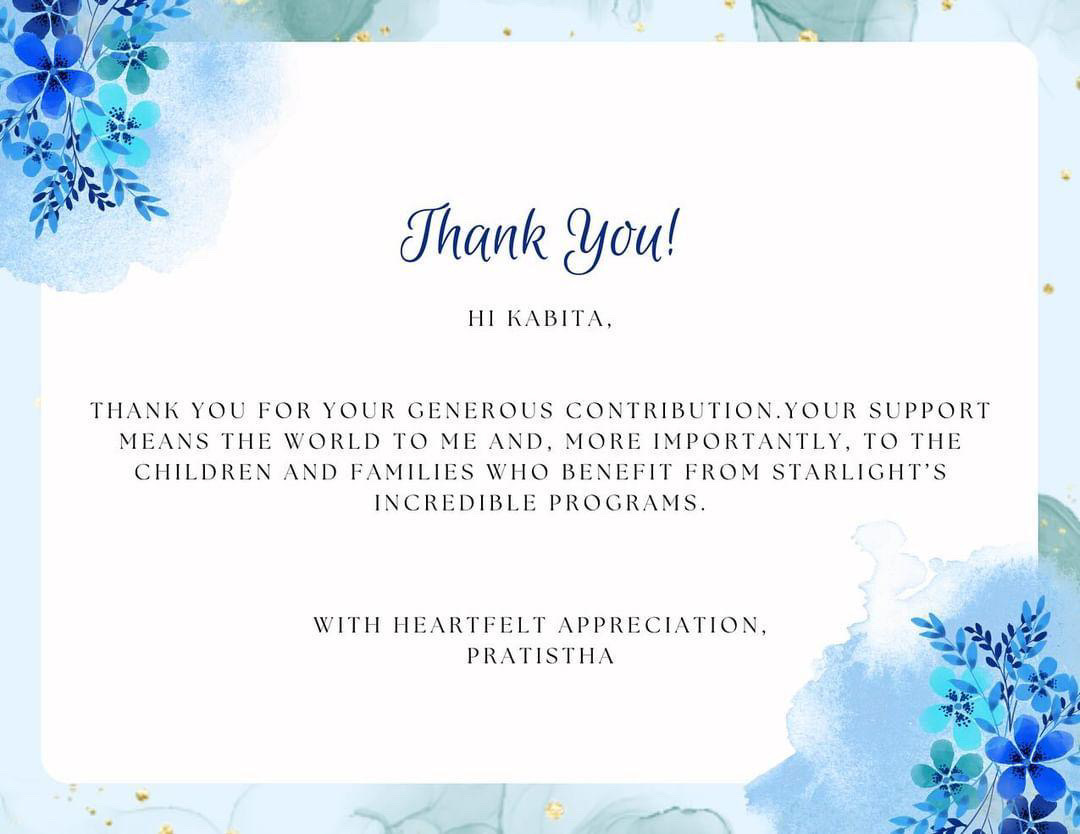
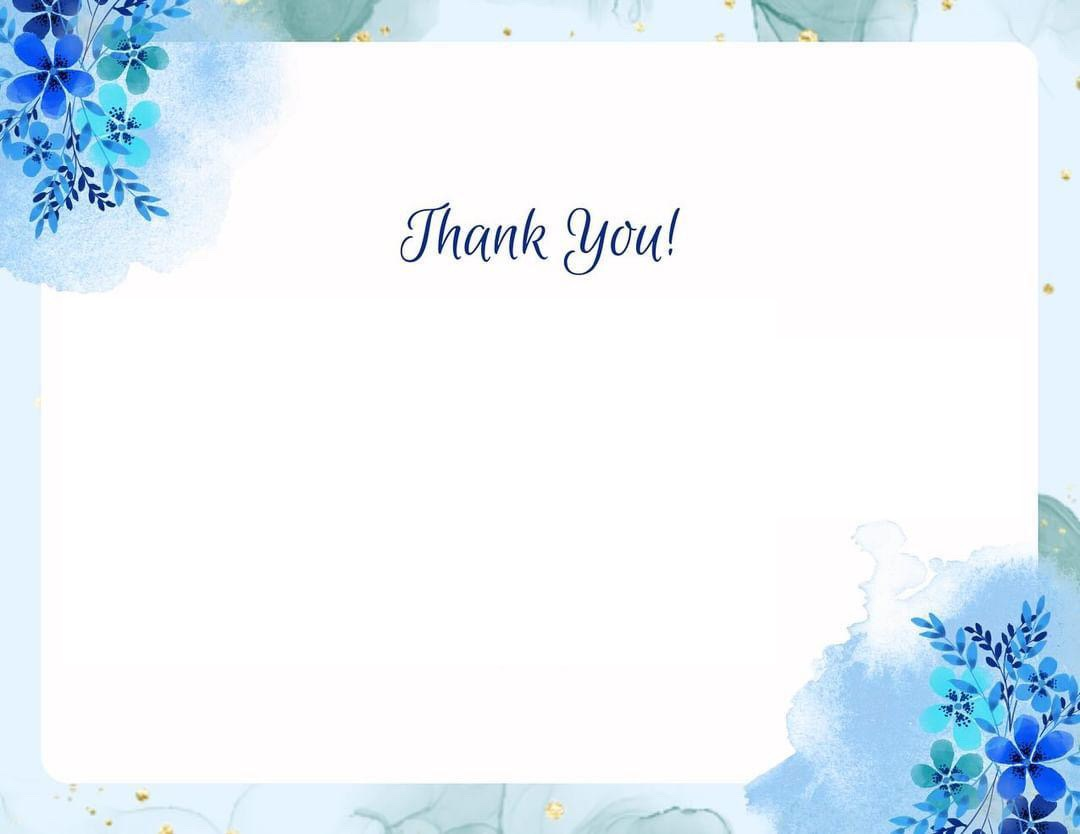
update img+ css

Changed region(s): [[0.0917, 0.4676, 0.9167, 0.6235], [0.3667, 0.717, 0.7028, 0.8106], [0.4278, 0.3741, 0.55, 0.4053]]

diff --git a/src/App.tsx b/src/App.tsx
@@ -10,18 +10,39 @@ const App = () => {
   return (
     <>
       <div className="wrapper" ref={printRef}>
-        <div className="text">Hi {name}</div>
         <img src={IMG} alt="image" />
+        <div className="text">
+          <span className="name">Hi{' ' + name},</span>
+          Thank you for your generous contribution.
+          <br />
+          Your support means the world to me and, more importantly,
+          <br />
+          to the children and families who benefit from Starlight’s <br />
+          incredible programs.
+          <span className="special">
+            With heartfelt appreciation,
+            <br />
+            Pratistha
+          </span>
+        </div>
       </div>
 
       <label htmlFor="name">Name : </label>
+
       <input
         type="text"
         name="name"
         id="name"
         onChange={(e) => setName(e.target.value)}
       />
-      <button type="button" onClick={() => exportComponentAsPNG(printRef)}>
+
+      <button
+        type="button"
+        onClick={() => {
+          if (!name) alert('Please enter your name');
+          if (name) exportComponentAsPNG(printRef);
+        }}
+      >
         Print
       </button>
     </>

diff --git a/src/App.css b/src/App.css
@@ -14,15 +14,38 @@
   }
 
   .text {
+    display: flex;
+    flex-direction: column;
+    gap: 4vh;
+
     position: absolute;
     color: black;
     padding: 8px 24px;
-    width: 60%;
-    background-color: white;
-    top: 38%;
+    width: 90%;
+    top: 58%;
     left: 50%;
     transform: translate(-50%, -50%);
     font-size: 2vw;
     container-name: text;
+    font-family: serif;
+    letter-spacing: 0.07rem;
+    text-transform: uppercase;
+
+    @media (max-width: 768px) {
+      gap: 4vw;
+      font-size: 1.8vw;
+    }
+
+    @media (min-width: 1160px) {
+      font-size: 24px;
+    }
   }
+}
+
+button {
+  margin: 16px;
+  background-color: aquamarine;
+  color: black;
+  font-size: 1rem;
+  font-weight: bold;
 }
